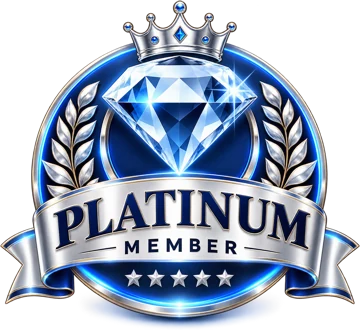
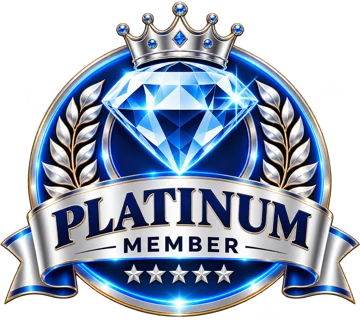
Home bottom card: Gold + Platinum member emblems
Claude-Session: https://claude.ai/code/session_018BqU7gfo7Z31NQ6dg8zHaR

diff --git a/index.html b/index.html
@@ -174,7 +174,7 @@ main{flex:1;width:100%;max-width:560px;margin:0 auto;padding:0 16px;display:flex
 .gpw .nsc.pm b{font-size:clamp(20px,5.8vw,24px);line-height:1.2;margin-top:4px;-webkit-line-clamp:2;margin-top:0;grid-row:2}.gpw .nsc.pm .ad{font-size:16px;-webkit-line-clamp:2;grid-row:3}
 .gpw .nsc.pm .vs{font-size:16px;padding:8px 20px}
 .gpw .nsc.pm .pbg{position:absolute;top:10px;right:10px;grid-row:auto}.gpw .nsc.pm .pbg .c{position:relative;left:auto;top:auto;width:32px;height:32px;margin-right:-8px}.gpw .nsc.pm .pbg i{font-size:12px;padding:4px 10px 4px 11px}
-.gpw .nsc.pt-platinum .pbg{display:none}.gpw .nsc.pt-platinum .pe{position:absolute;top:8px;right:8px;width:88px;height:auto;filter:drop-shadow(0 3px 6px rgba(20,40,90,.3))}.gpw .nsc.pt-platinum b{padding-right:80px;font-size:clamp(16px,4.6vw,21px);-webkit-line-clamp:3}
+.gpw .nsc.pt-platinum .pbg,.gpw .nsc.pt-gold .pbg{display:none}.gpw .nsc.pt-gold b{padding-right:80px}.gpw .nsc.pt-gold .pe,.gpw .nsc.pt-platinum .pe{position:absolute;top:8px;right:8px;width:88px;height:auto;filter:drop-shadow(0 3px 6px rgba(20,40,90,.3))}.gpw .nsc.pt-platinum b{padding-right:80px;font-size:clamp(16px,4.6vw,21px);-webkit-line-clamp:3}
 .gdots{display:flex;justify-content:center;gap:6px;margin-top:8px}.gdots i{width:7px;height:7px;border-radius:50%;background:#cfd6e2;transition:.25s}.gdots i.on{width:20px;border-radius:999px;background:#B58A2A}
 @media (prefers-reduced-motion:reduce){.gpw .nst{transition:none}}.pv[hidden]{display:none}
 .pv{position:relative;width:100%;aspect-ratio:2/1;overflow:hidden;border-radius:18px;background:#eef3fb;box-shadow:0 6px 18px rgba(26,115,232,.12);touch-action:pan-y;-webkit-user-select:none;user-select:none}
@@ -569,7 +569,7 @@ function applyLang(){
   let GP=[],GL=[];const LOGO={},LRX=/^https:\/\/kkvbpzysktozghnxplxv\.supabase\.co\/storage\/v1\/object\/public\/shop-logos\//;
   function badge(t){return '<span class="pbg pb-'+t+'"><img class="c" src="'+(t==="platinum"?"pb-diamond.webp":"pb-crown.webp")+'" alt="" width="16" height="16"><i>'+t.toUpperCase()+' MEMBER</i></span>';}
   function gcard(b){const lg=b._lg&&LOGO[b.slug];
-    return '<a class="nsc pm pt-'+b._t+'" href="business.html?slug='+encodeURIComponent(b.slug||"")+'">'+badge(b._t)+(b._t==="platinum"?'<img class="pe" src="pb-platinum-emblem.webp" alt="Platinum Member" width="84" height="77">':"")+'<span class="ic'+(lg?' lg':'')+'">'+(lg?'<img src="'+esc(lg)+'" alt="" loading="lazy" decoding="async">':b._ic)+'</span><b>'+esc(b.name)+'</b><span class="ad">'+(b.category?b._ic+' '+esc(b.category):'📍 '+esc(b.address||b.city||""))+'</span><span class="vs">🛍 '+(hi()?"दुकान देखें":"Visit shop")+' ›</span></a>';}
+    return '<a class="nsc pm pt-'+b._t+'" href="business.html?slug='+encodeURIComponent(b.slug||"")+'">'+badge(b._t)+(b._t==="platinum"||b._t==="gold"?'<img class="pe" src="pb-'+b._t+'-emblem.webp" alt="'+(b._t==="gold"?"Gold":"Platinum")+' Member" width="88" height="80">':"")+'<span class="ic'+(lg?' lg':'')+'">'+(lg?'<img src="'+esc(lg)+'" alt="" loading="lazy" decoding="async">':b._ic)+'</span><b>'+esc(b.name)+'</b><span class="ad">'+(b.category?b._ic+' '+esc(b.category):'📍 '+esc(b.address||b.city||""))+'</span><span class="vs">🛍 '+(hi()?"दुकान देखें":"Visit shop")+' ›</span></a>';}
   const G={i:0,drag:false,moved:0,on:false,tm:0,fx:0};
   /* नीचे की पट्टी: एक-एक पूरा pamphlet; 4 सेकंड रुकता है, फिर झट से अगला slide होकर आता है; उँगली से भी पलटा जा सकता है */
   function gdraw(){const w=document.getElementById("gpw"),t=document.getElementById("gpt"),pv=document.getElementById("pv");if(!w||!t)return;
